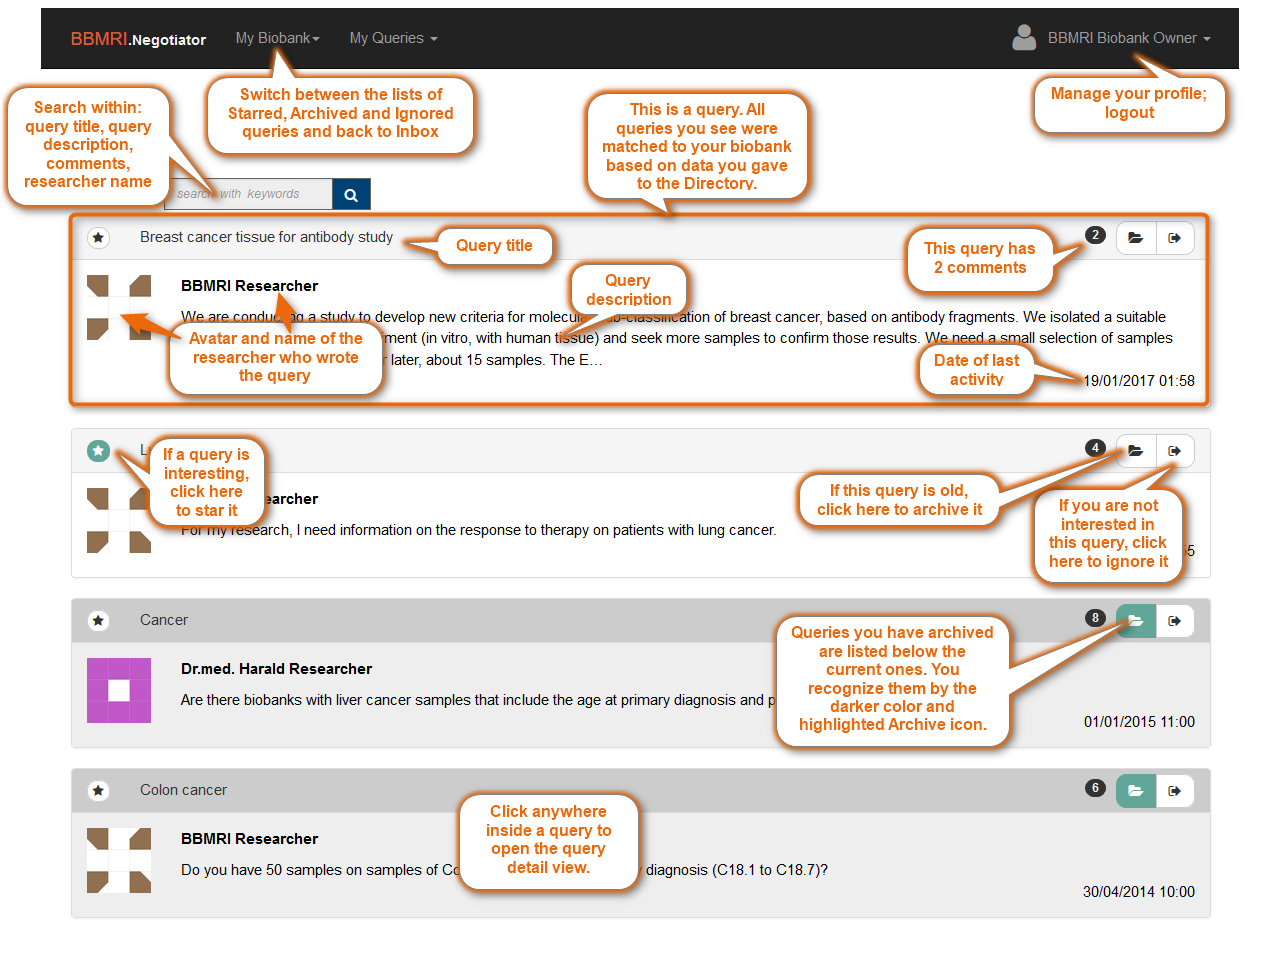
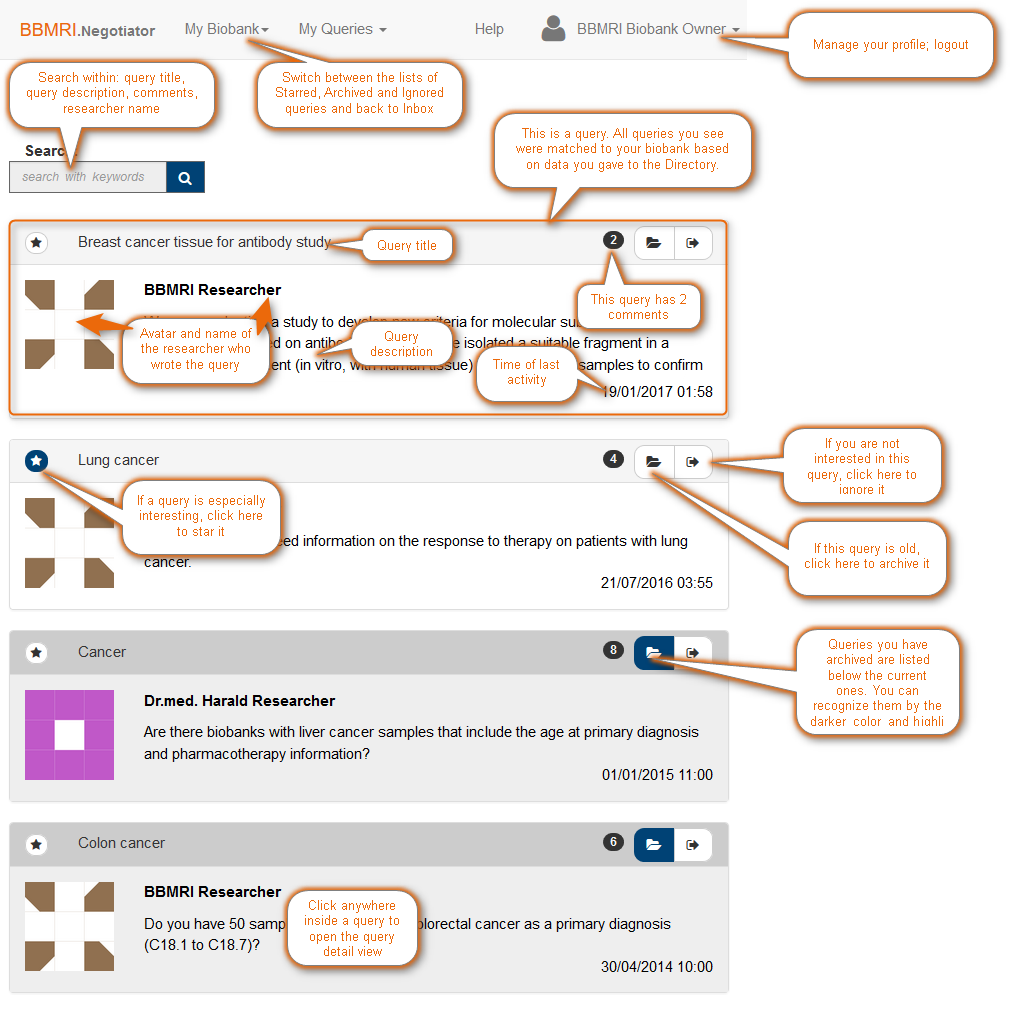
replaced the product tour image
updated the changelog, added some documentation to the configuration file

diff --git a/CHANGELOG.md b/CHANGELOG.md
@@ -1,5 +1,13 @@
 # Changelog
 
+## Version 1.0.1
+
+- updated the product tour image for the biobank owner
+
+## Version 1.0.0
+
+- initial release
+
 ## Version 0.0.1
 
 - Added another URL for molgenis in case the URL for the REST interface is different
